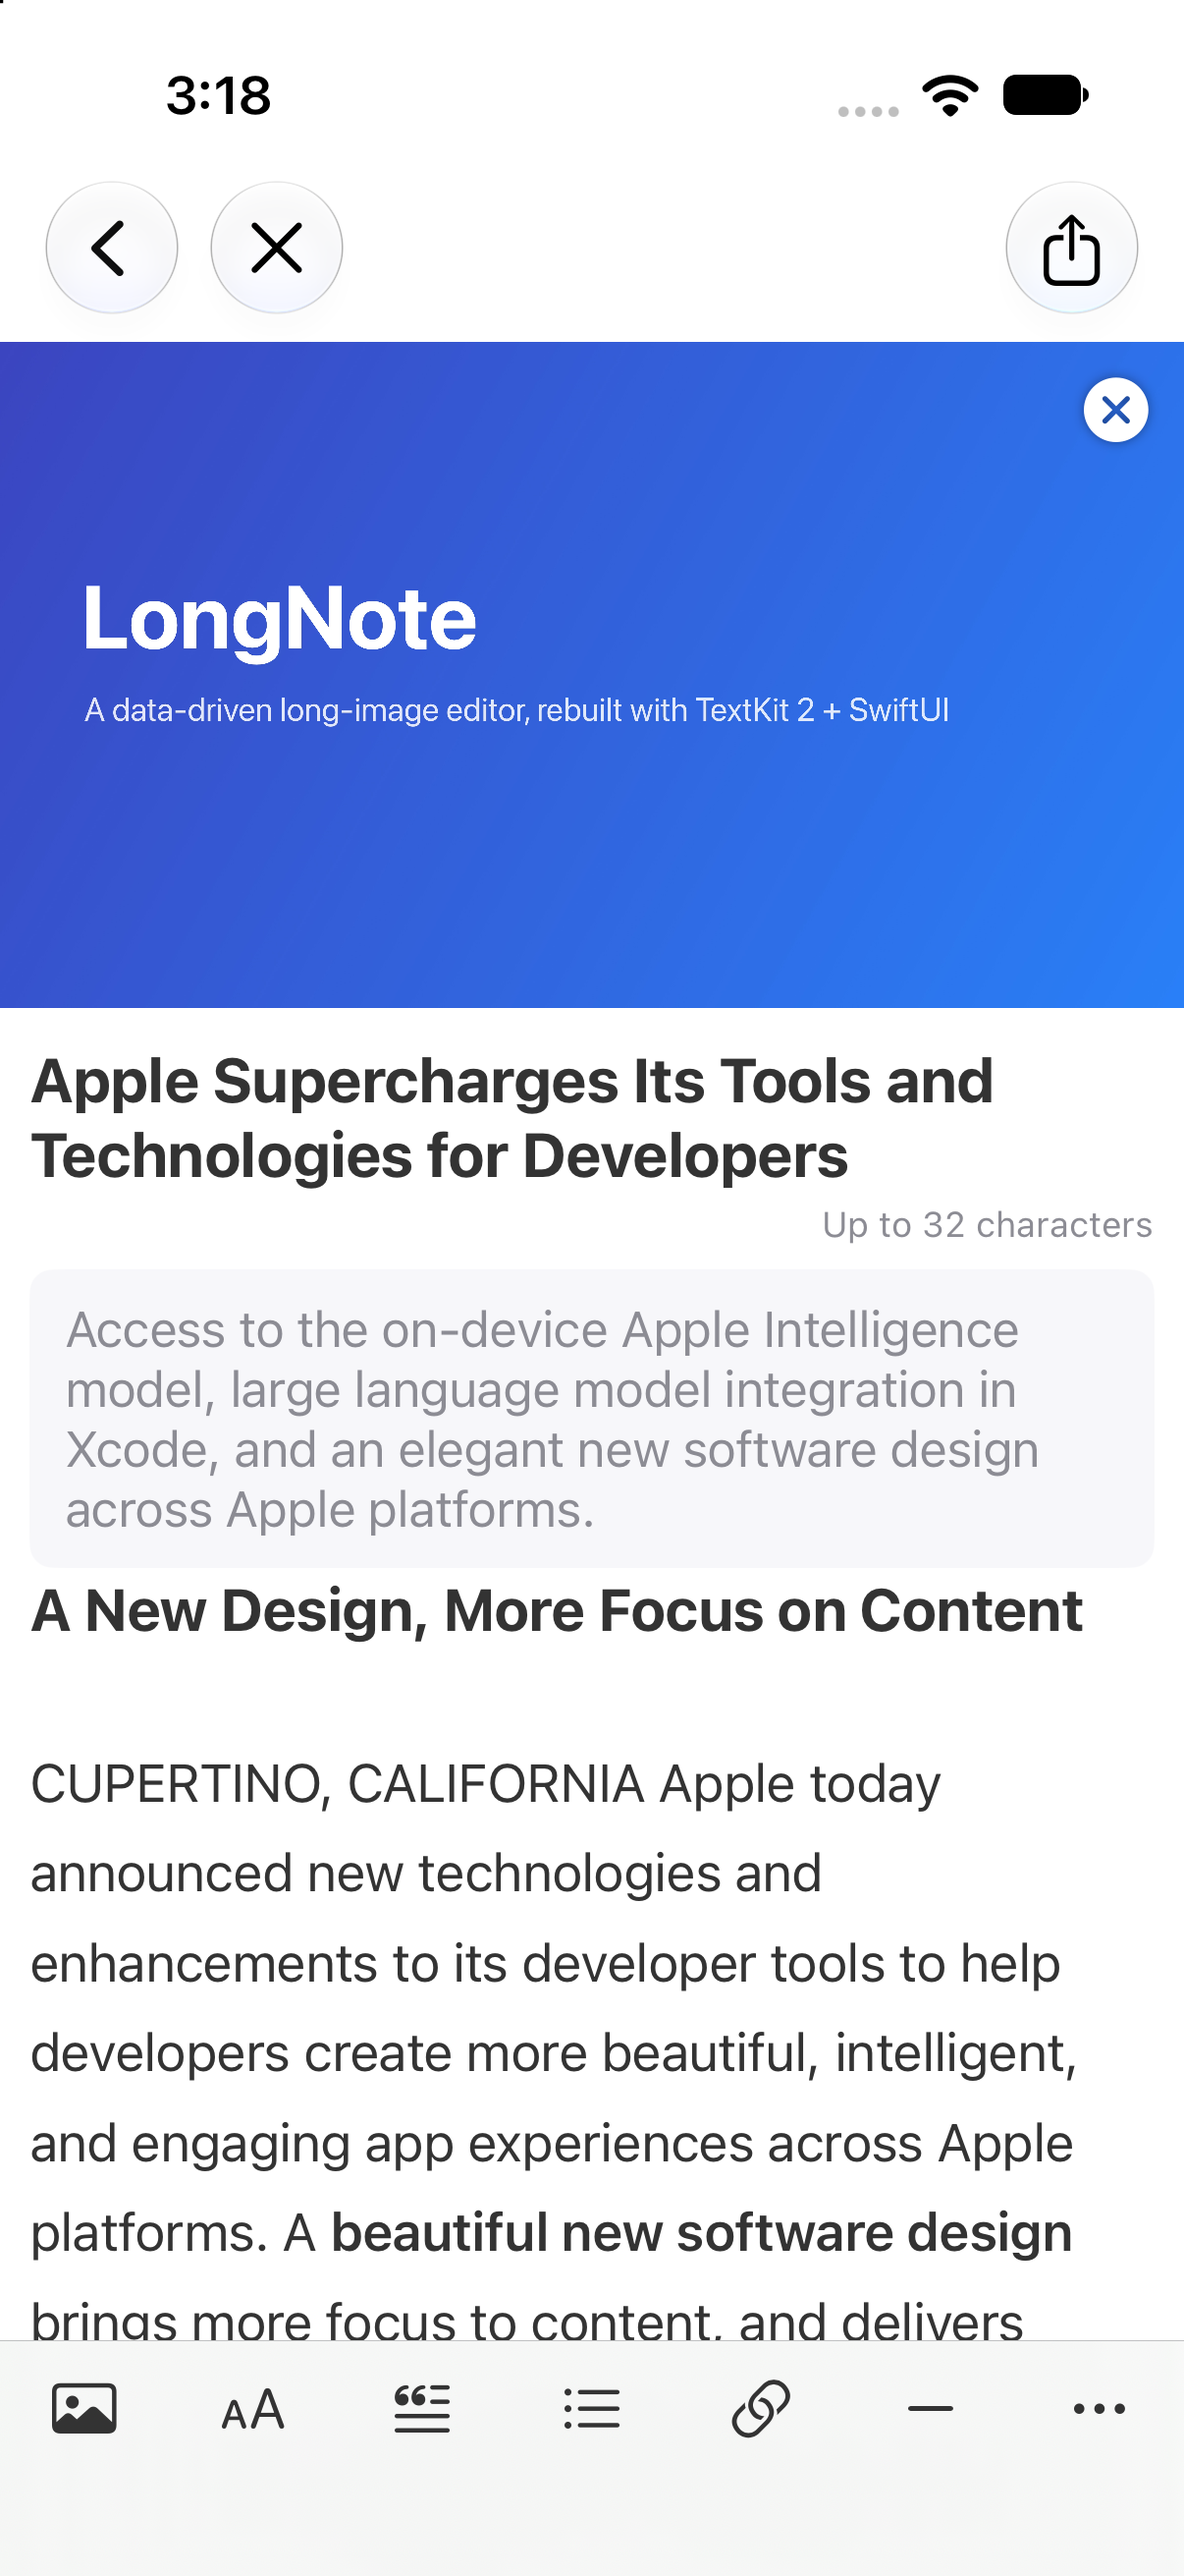
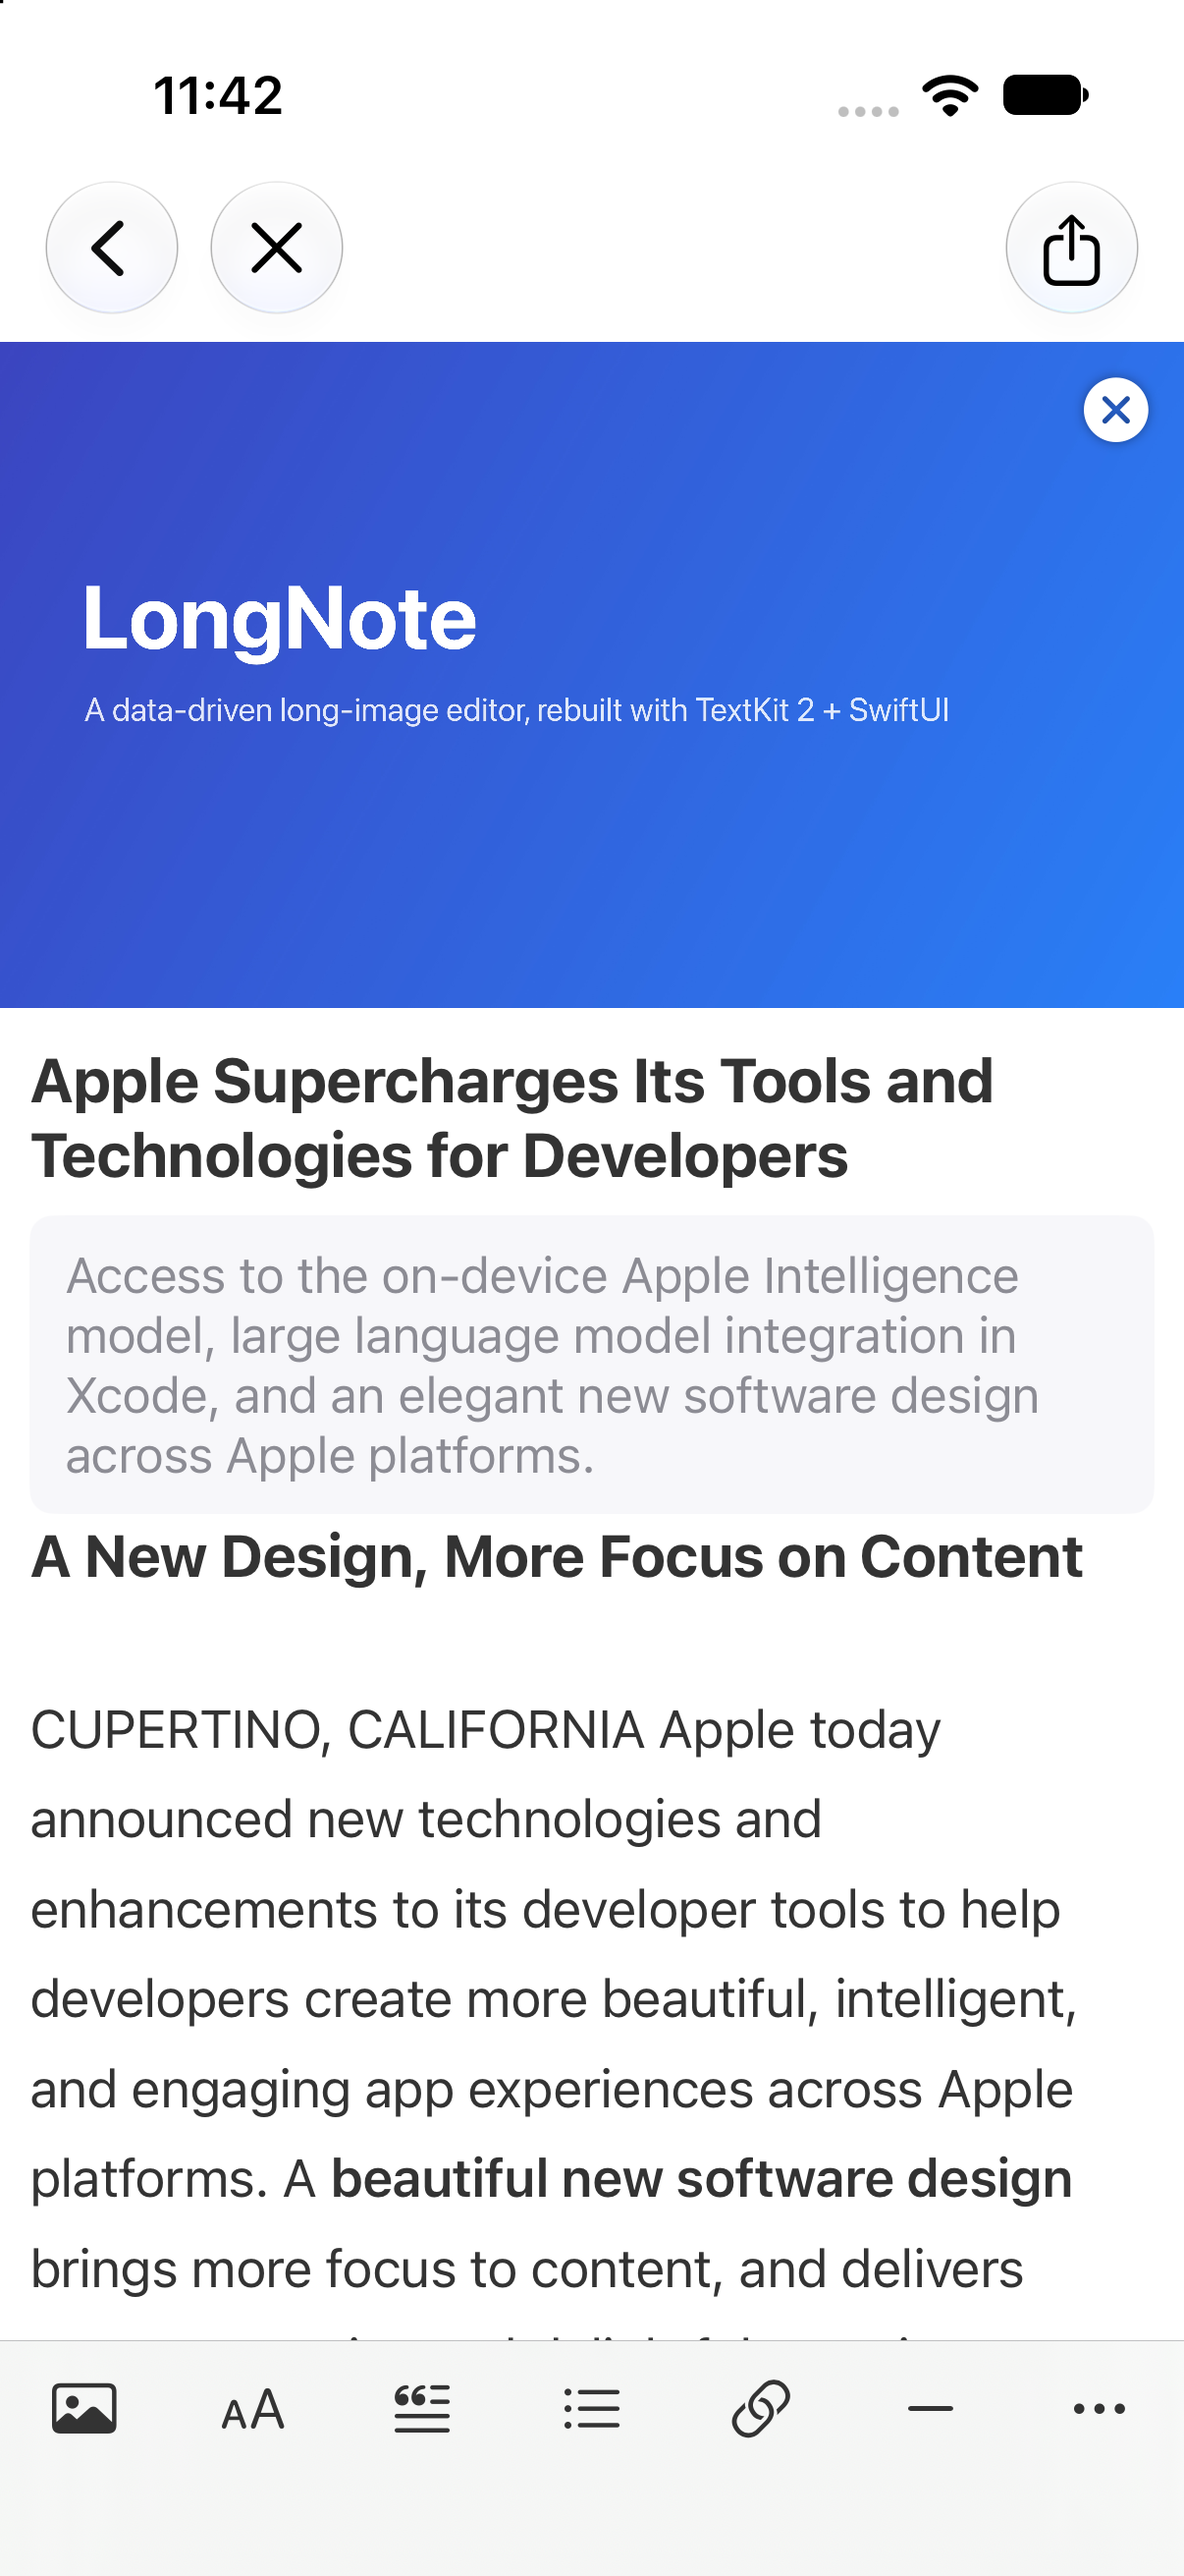
Drop the title character hint; input stops at 32 characters
The 'Up to 32 characters' line under the title is gone. The cap was
already enforced by the binding — values longer than 32 are ignored — so
typing now simply stops at the limit while deleting and editing keep
working. Docs updated to describe the behaviour, and the screenshots were
regenerated.

Changed region(s): [[0.0307, 0.4634, 0.9204, 0.9268], [0.1227, 0.0309, 0.2454, 0.0618], [0.9204, 0.4634, 0.9511, 0.4943]]

diff --git a/Sources/LongNote/Editor/TitleBlockView.swift b/Sources/LongNote/Editor/TitleBlockView.swift
@@ -2,9 +2,11 @@
   import SwiftUI
   import LongNoteCore
 
-  /// The article title field at the top of the editor, capped at 32 characters with
-  /// a soft word-count warning near the limit (mirrors the original editor's
-  /// `textMaxCount` behavior).
+  /// The article title field at the top of the editor.
+  ///
+  /// The title is hard-capped at 32 characters: the binding refuses values
+  /// beyond the limit, so typing simply stops there (mirroring the original
+  /// editor's `textMaxCount`).
   @MainActor
   struct TitleBlockView: View {
     let document: ArticleDocument
@@ -12,30 +14,24 @@
     private static let maxLength = 32
 
     var body: some View {
-      VStack(alignment: .trailing, spacing: 4) {
-        TextField(
-          "Enter a title",
-          text: Binding(
-            get: { document.article.title },
-            set: { newValue in
-              if newValue.count <= Self.maxLength {
-                document.updateTitle(newValue)
-              }
+      TextField(
+        "Enter a title",
+        text: Binding(
+          get: { document.article.title },
+          set: { newValue in
+            // Ignore anything longer than the cap — the field just stops
+            // accepting input (deleting and editing still work).
+            if newValue.count <= Self.maxLength {
+              document.updateTitle(newValue)
             }
-          ),
-          axis: .vertical
-        )
-        .lineLimit(1...2)
-        .font(.system(size: TextStyle.articleTitleFontSize, weight: .bold))
-        .foregroundStyle(TextStyle.textColor.color)
-        .frame(maxWidth: .infinity, alignment: .leading)
-
-        if document.article.title.count >= Self.maxLength - 4 {
-          Text("Up to \(Self.maxLength) characters")
-            .font(.caption)
-            .foregroundStyle(TextStyle.secondaryTextColor.color)
-        }
-      }
+          }
+        ),
+        axis: .vertical
+      )
+      .lineLimit(1...2)
+      .font(.system(size: TextStyle.articleTitleFontSize, weight: .bold))
+      .foregroundStyle(TextStyle.textColor.color)
+      .frame(maxWidth: .infinity, alignment: .leading)
       .padding(.horizontal, TextStyle.editorHorizontalInset)
       .padding(.top, 12)
     }

diff --git a/README.md b/README.md
@@ -22,7 +22,7 @@ A **pure Swift Package** component library that descends from the long-article f
 You get the parts that made the original editor great:
 
 - **Per-paragraph rich text** — each paragraph is a `UITextView` (TextKit 2), giving full per-run control over bold / strikethrough / color / link, exactly like the original one-paragraph-per-row list.
-- **Cover / title / summary** — 16:9 cover, 32-character title, optional lede.
+- **Cover / title / summary** — 16:9 cover, 32-character title (input simply stops at the limit), optional lede.
 - **Mixed blocks** — H1 / H2 / body / quote / list / image / divider in one flow.
 - **Long-image export** — SwiftUI `ImageRenderer` with a tiling fallback for very long articles.
 - **Draft autosave** — a tiny file-based `ArticleStore` (one directory per article), autosaved with a 2 s debounce. The library does not bind you to SwiftData.
@@ -123,7 +123,7 @@ Sources/
 └── LongNote/
     ├── Editor/         ArticleDocument (@Observable) · FocusCoordinator · RichTextView ·
     │                   ArticleEditorView · ParagraphEditorView · block views · toolbars
-    ├── Rendering/      ArticleRenderView · ArticleImageRenderer (+ tile fallback, photo save)
+    ├── Rendering/      ArticleRenderView · ArticleImageRenderer (tile fallback) · LongImagePreview (pinch/double-tap zoom)
     └── RichText/       NSAttributedString HTML/AttributedString helpers
 ```
 

diff --git a/README.zh-CN.md b/README.zh-CN.md
@@ -24,7 +24,7 @@
 ## 主要功能
 
 - **逐段富文本编辑** —— 每个段落是一个独立的 `UITextView`（TextKit 2），可以按选区设置加粗 / 删除线 / 颜色 / 链接，与「一段一行」的原版一致。
-- **封面 / 标题 / 导语** —— 16:9 封面、32 字上限的标题、可选导语。
+- **封面 / 标题 / 导语** —— 16:9 封面、标题输入到 32 字即停止、可选导语。
 - **混排块** —— 大标题 / 小标题 / 正文 / 引用 / 列表 / 图片 / 分割线可自由混排。
 - **长图导出** —— SwiftUI `ImageRenderer` 渲染，超长文章走分片兜底。
 - **草稿自动保存** —— 基于文件的 `ArticleStore`（一篇文章一个目录），停止输入 2 秒后自动保存，不绑定 SwiftData。
@@ -125,7 +125,7 @@ Sources/
 └── LongNote/
     ├── Editor/         ArticleDocument (@Observable) · FocusCoordinator · RichTextView ·
     │                   ArticleEditorView · ParagraphEditorView · 各块视图 · 工具栏
-    ├── Rendering/      ArticleRenderView · ArticleImageRenderer（分片兜底、存相册）
+    ├── Rendering/      ArticleRenderView · ArticleImageRenderer（分片兜底） · LongImagePreview（捏合 / 双击缩放）
     └── RichText/       NSAttributedString / HTML / AttributedString 辅助
 ```
 
